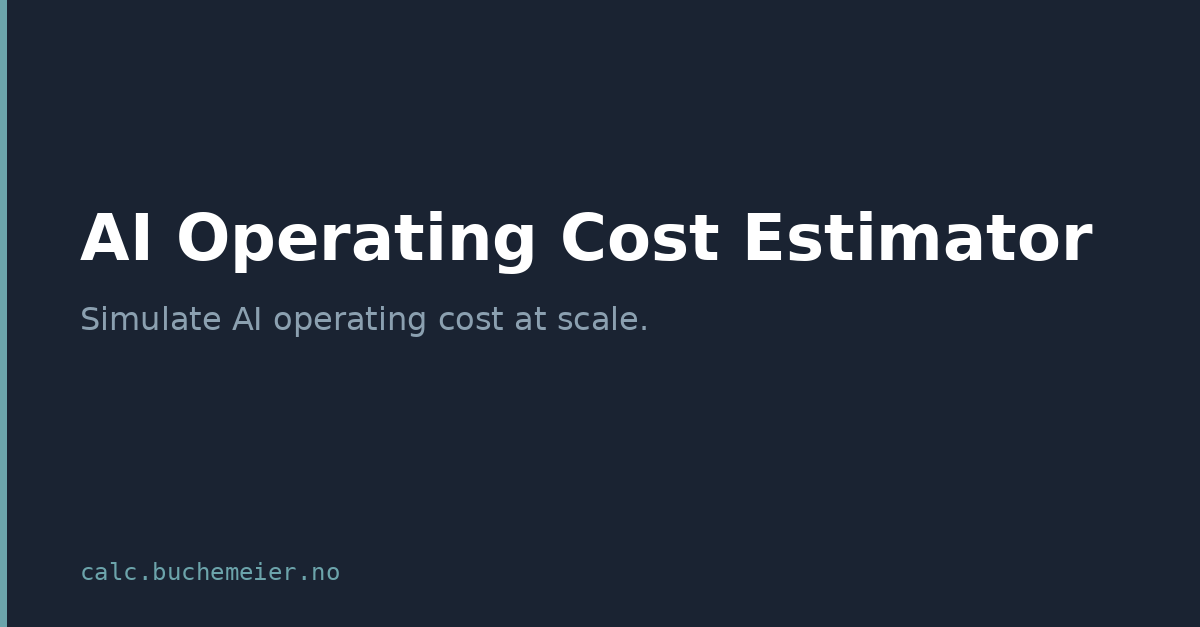
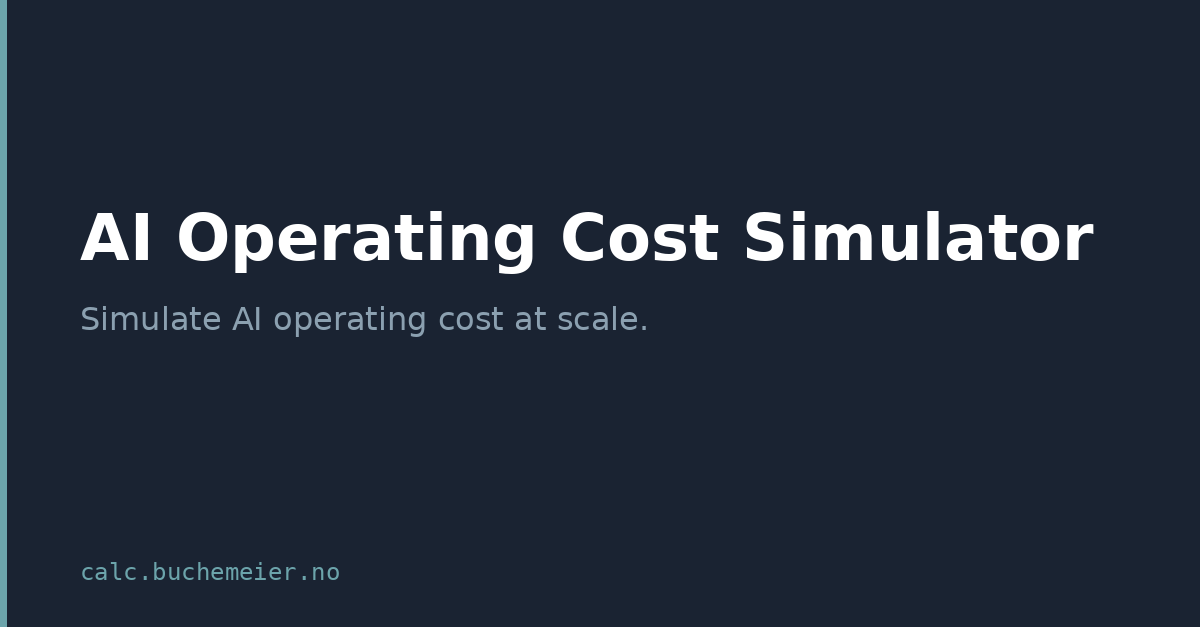
Add files via upload

Changed region(s): [[0.6167, 0.3333, 0.8942, 0.4242]]

diff --git a/index.html b/index.html
@@ -476,8 +476,7 @@ footer a:hover{color:var(--text2)}
 <div class="hero">
   <div class="hero-eyebrow">AI Operating Cost Simulator</div>
   <h1>Simulate AI operating cost at scale.</h1>
-  <p>Configure workflows, volume, and model<br>to simulate AI operating cost.</p>
-  <p style="font-size:12px;color:var(--text3);margin-top:6px;font-family:var(--mono);">Simplified inference-based simulation using configurable assumptions and live model pricing.</p>
+  <p style="font-size:12px;color:var(--text3);margin-top:10px;font-family:var(--mono);">Simplified inference-based simulation using configurable assumptions.</p>
 </div>
 
 <div class="steps-wrap">